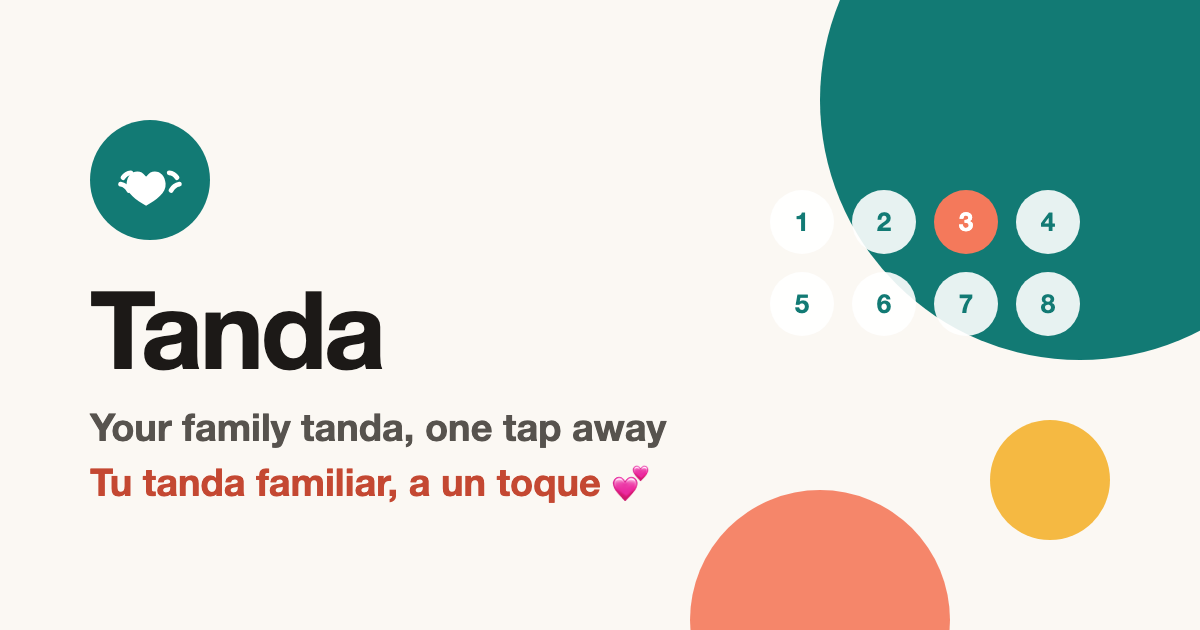
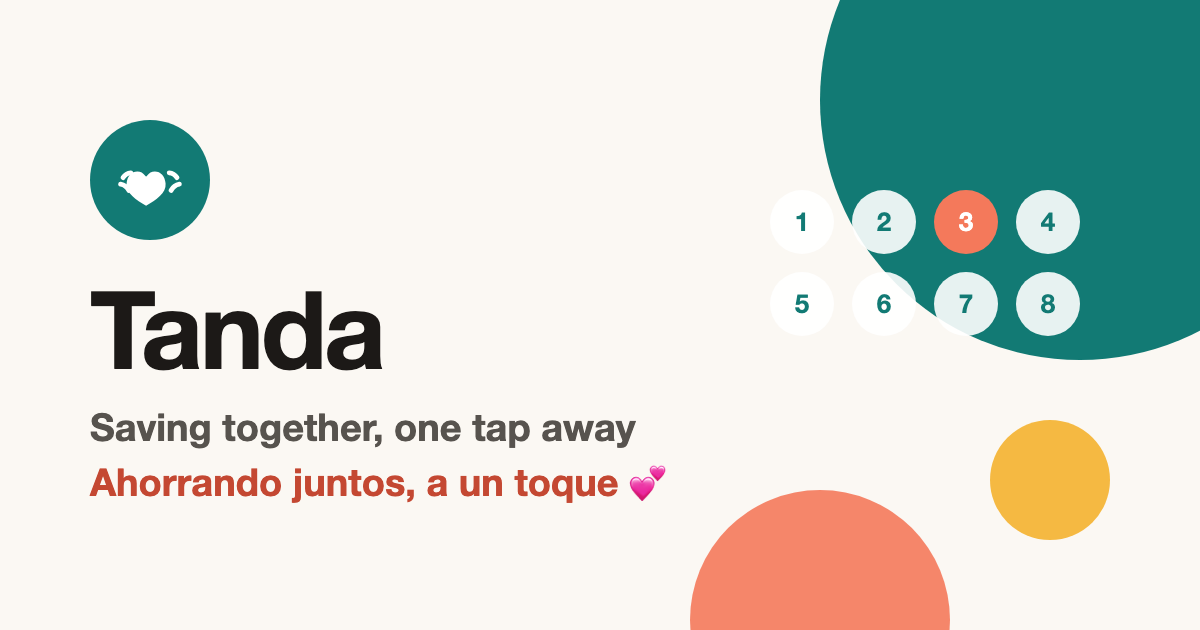
copy: drop 'family' wording; the group isn't all family

Changed region(s): [[0.0617, 0.6333, 0.555, 0.8143]]

diff --git a/src/data/labels.js b/src/data/labels.js
@@ -50,7 +50,7 @@ export const LABELS = {
     yourTurn:         'Your turn',
     receivedPayout:   n => `You received your payout in Round ${n} 🎉`,
     close:            'Close',
-    tagline:          'Family support, step by step',
+    tagline:          'Saving together, step by step',
     greeting:         name => `Hi, ${name}! 👋`,
     greetingSub:      'Good to see you here',
     paidBig:          'Paid! ✅',
@@ -79,7 +79,7 @@ export const LABELS = {
     yourRound:        'This round is yours! 🎉',
     youBadge:         'You',
     celebrateTitle:   name => `It's your turn, ${name}! 🎉`,
-    celebrateBody:    (pot, date) => `The family is sending you ${pot}. Payout day is ${date}.`,
+    celebrateBody:    (pot, date) => `The group is sending you ${pot}. Payout day is ${date}.`,
     paidThanks:       name => `Thank you, ${name}! 💕`,
     paidThanksBody:   'Your payment is in. You are all set for this round.',
     yay:              'Yay!',
@@ -190,7 +190,7 @@ export const LABELS = {
     yourTurn:         'Tu turno',
     receivedPayout:   n => `Recibiste tu pago en la Ronda ${n} 🎉`,
     close:            'Cerrar',
-    tagline:          'Apoyo familiar, paso a paso 💕',
+    tagline:          'Ahorrando juntos, paso a paso 💕',
     greeting:         name => `¡Hola, ${name}! 👋`,
     greetingSub:      'Qué bueno verte por aquí',
     paidBig:          '¡Pagado! ✅',
@@ -221,7 +221,7 @@ export const LABELS = {
     yourRound:        '¡Esta ronda es tuya! 🎉',
     youBadge:         'Tú',
     celebrateTitle:   name => `¡Es tu turno, ${name}! 🎉`,
-    celebrateBody:    (pot, date) => `La familia te envía ${pot}. Tu pago es el ${date}.`,
+    celebrateBody:    (pot, date) => `El grupo te envía ${pot}. Tu pago es el ${date}.`,
     paidThanks:       name => `¡Gracias, ${name}! 💕`,
     paidThanksBody:   'Tu pago ya está. Estás al día en esta ronda.',
     yay:              '¡Qué bien!',

diff --git a/index.html b/index.html
@@ -10,11 +10,11 @@
     <link rel="icon" type="image/png" href="/tanda-manager/icons/icon-192.png" />
     <link rel="apple-touch-icon" href="/tanda-manager/icons/icon-192.png" />
     <title>Tanda</title>
-    <meta name="description" content="Your family tanda, one tap away · Tu tanda familiar, a un toque" />
+    <meta name="description" content="Your tanda, one tap away · Tu tanda, a un toque" />
     <!-- Link preview when a member link is texted. Generic on purpose: no names or amounts. -->
     <meta property="og:type" content="website" />
     <meta property="og:site_name" content="Tanda" />
-    <meta property="og:title" content="Tanda · Your family tanda" />
+    <meta property="og:title" content="Tanda · Saving together" />
     <meta property="og:description" content="Open your private link to see your payment and payout day. · Abre tu enlace privado para ver tu pago y tu turno." />
     <meta property="og:image" content="https://mmira11.github.io/tanda-manager/og-image.png" />
     <meta property="og:image:width" content="1200" />

diff --git a/src/utils/messaging.js b/src/utils/messaging.js
@@ -47,7 +47,7 @@ function getCollectDayName(collectDate, locale = 'en-US') {
   return new Date(collectDate + 'T12:00:00').toLocaleDateString(locale, { weekday: 'long' })
 }
 
-// Admin screens are English only, but texts to the family always carry both languages.
+// Admin screens are English only, but texts to members always carry both languages.
 export function bilingual(en, es) {
   return `${en}\n\n${es}`
 }
